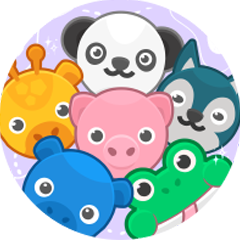
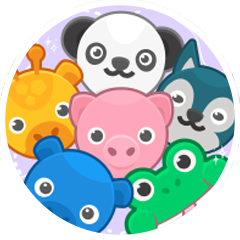
Fix memory-match. Modificacion imagenes add contorno blanco

Changed region(s): [[0.0, 0.0, 0.875, 1.0], [0.875, 0.2042, 1.0, 0.8167], [0.8458, 0.8167, 0.875, 0.8458]]

diff --git a/games/memory-match.js b/games/memory-match.js
@@ -54,23 +54,38 @@ function createCards(pairs) {
     // Reiniciar array de cartas
     cards = [];
     
-    // Crear pares de cartas
-    for (let i = 1; i <= pairs; i++) {
+    // Total de imágenes disponibles (del 1 al 11)
+    const totalAvailableImages = 11;
+    
+    // Seleccionar aleatoriamente 'pairs' números de imágenes
+    const selectedValues = [];
+    while (selectedValues.length < pairs) {
+        // Generar un número aleatorio entre 1 y 11
+        const randomValue = Math.floor(Math.random() * totalAvailableImages) + 1;
+        
+        // Añadir el valor solo si no está ya en el array
+        if (!selectedValues.includes(randomValue)) {
+            selectedValues.push(randomValue);
+        }
+    }
+    
+    // Crear pares de cartas con los valores seleccionados
+    selectedValues.forEach((value, index) => {
         // Cada par tiene el mismo valor pero diferente id
         cards.push({
-            id: i + '-A',
-            value: i,
+            id: (index + 1) + '-A',
+            value: value,  // Usamos el valor aleatorio seleccionado
             flipped: false,
             matched: false
         });
         
         cards.push({
-            id: i + '-B',
-            value: i,
+            id: (index + 1) + '-B',
+            value: value,  // Usamos el valor aleatorio seleccionado
             flipped: false,
             matched: false
         });
-    }
+    });
     
     // Barajar cartas
     shuffleCards();
